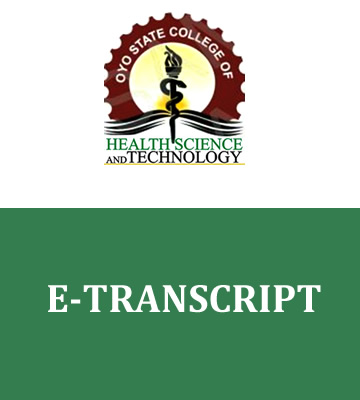
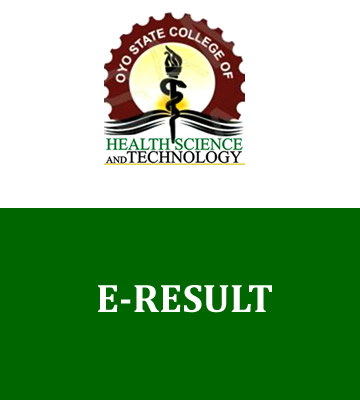
Creted migration and model files

diff --git a/database/migrations/2024_12_24_111352_create_result_computes_table.php b/database/migrations/2024_12_24_111352_create_result_computes_table.php
@@ -1,0 +1,95 @@
+<?php
+
+use Illuminate\Database\Migrations\Migration;
+use Illuminate\Database\Schema\Blueprint;
+use Illuminate\Support\Facades\Schema;
+
+return new class extends Migration
+{
+    /**
+     * Run the migrations.
+     */
+    public function up(): void
+    {
+        Schema::create('result_computes', function (Blueprint $table) {
+            $table->id();
+            $table->string('admission_no', 20); 
+            $table->string('surname', 50); 
+            $table->string('first_name', 50); 
+            $table->string('other_name', 50)->nullable(); 
+            $table->string('class', 20); 
+            $table->string('semester', 20); 
+            $table->string('picture_dir', 20)->nullable(); 
+            $table->string('course', 100); 
+            $table->unsignedTinyInteger('sn', 5); 
+            $table->unsignedTinyInteger('no_of_course'); 
+            $table->string('session1', 20); 
+            $table->decimal('gtotal', 5, 1)->nullable();
+            $table->decimal('gpa', 5, 1)->nullable();
+            $table->integer('total_course_unit')->nullable();
+            $table->string('student_full_name', 100);
+            $table->decimal('gpa1', 5, 1)->nullable();
+            $table->decimal('gpa2', 5, 1)->nullable();
+            $table->decimal('cgpa', 5, 1)->nullable();
+            $table->decimal('cgpa1', 5, 1)->nullable();
+            $table->decimal('cgpa2', 5, 1)->nullable();
+            $table->decimal('cgpa3', 5, 1)->nullable();
+            $table->decimal('total_cgpa', 5, 1)->nullable();
+            $table->string('remark', 20)->nullable();
+            $table->unsignedTinyInteger('failed_course')->nullable();
+            $table->unsignedTinyInteger('failed_course1')->nullable();
+            $table->unsignedTinyInteger('failed_course2')->nullable();
+            $table->unsignedTinyInteger('total_failed_course')->nullable();
+            $table->string('cgpa_remark', 20)->nullable();
+            $table->string('promoted', 20)->nullable();
+            $table->decimal('total_grade_point', 5, 1)->nullable();
+            $table->decimal('all_total_grade_point', 5, 1)->nullable();
+            $table->unsignedTinyInteger('total_course_unit_new')->nullable();
+            $table->unsignedTinyInteger('all_total_course_unit')->nullable();
+            $table->decimal('total_cgpa_new', 5, 1)->nullable();
+            $table->string('total_remark', 20)->nullable();
+
+            // Generate fields for scores and subjects
+            for ($i = 1; $i <= 19; $i++) {               
+                $table->string("subject{$i}", 60)->nullable(); 
+            }
+
+            for ($i = 1; $i <= 19; $i++) {
+                $table->decimal("ctotal{$i}", 5, 1)->nullable();                
+            }
+
+            for ($i = 1; $i <= 17; $i++) {
+                $table->decimal("subjectgrade{$i}", 5)->nullable();                
+            }
+
+            for ($i = 1; $i <= 19; $i++) {               
+                $table->string("score{$i}", 5)->nullable(); 
+            }
+
+            // Generate fields for units
+            for ($i = 1; $i <= 18; $i++) {
+                $table->unsignedTinyInteger("unit{$i}")->nullable();
+            }
+
+            // Generate fields for course titles
+            for ($i = 1; $i <= 17; $i++) {
+                $table->string("ctitle{$i}", 100)->nullable();
+            }
+
+            for ($i = 1; $i <= 15; $i++) {               
+                $table->string("carryover{$i}", 10)->nullable(); 
+            }
+
+            $table->timestamps();
+
+        });
+    }
+
+    /**
+     * Reverse the migrations.
+     */
+    public function down(): void
+    {
+        Schema::dropIfExists('result_computes');
+    }
+};

diff --git a/app/Models/ResultCompute.php b/app/Models/ResultCompute.php
@@ -1,0 +1,64 @@
+<?php
+
+namespace App\Models;
+
+use Illuminate\Database\Eloquent\Factories\HasFactory;
+use Illuminate\Database\Eloquent\Model;
+
+class ResultCompute extends Model
+{
+    use HasFactory;
+
+    protected $table = 'result_computes';
+
+    protected $fillable;
+
+    public function __construct()
+    {
+        $this->fillable = array_merge(
+            [
+                'admission_no',
+                'surname',
+                'first_name',
+                'other_name',
+                'class',
+                'semester',
+                'picture_dir',
+                'course',
+                'no_of_course',
+                'session1',
+                'gtotal',
+                'gpa',
+                'total_course_unit',
+                'student_full_name',
+                'gpa1',
+                'gpa2',
+                'cgpa',
+                'cgpa1',
+                'cgpa2',
+                'cgpa3',
+                'total_cgpa',
+                'remark',
+                'failed_course',
+                'failed_course1',
+                'failed_course2',
+                'total_failed_course',
+                'cgpa_remark',
+                'promoted',
+                'total_grade_point',
+                'all_total_grade_point',
+                'total_course_unit_new',
+                'all_total_course_unit',
+                'total_cgpa_new',
+                'total_remark',
+            ],
+                array_map(fn($i) => "subject{$i}", range(1, 19)),
+                array_map(fn($i) => "ctotal{$i}", range(1, 19)),
+                array_map(fn($i) => "subjectgrade{$i}", range(1, 17)),
+                array_map(fn($i) => "score{$i}", range(1, 19)),
+                array_map(fn($i) => "unit{$i}", range(1, 18)),
+                array_map(fn($i) => "ctitle{$i}", range(1, 17)),
+                array_map(fn($i) => "carryover{$i}", range(1, 15)),
+        );
+    }
+}

diff --git a/database/migrations/2024_12_24_103259_create_results_table.php b/database/migrations/2024_12_24_103259_create_results_table.php
@@ -1,0 +1,54 @@
+<?php
+
+use Illuminate\Database\Migrations\Migration;
+use Illuminate\Database\Schema\Blueprint;
+use Illuminate\Support\Facades\Schema;
+
+return new class extends Migration
+{
+    /**
+     * Run the migrations.
+     */
+    public function up(): void
+    {
+        Schema::create('results', function (Blueprint $table) {
+            $table->id();
+            $table->string('admission_no', 20); 
+            $table->string('surname', 50); 
+            $table->string('first_name', 50); 
+            $table->string('other_name', 50)->nullable(); 
+            $table->string('class', 20); 
+            $table->string('semester', 20); 
+            $table->string('picture_dir', 20)->nullable(); 
+            $table->string('course', 100); 
+            $table->unsignedTinyInteger('no_of_course'); 
+            $table->string('session1', 20); 
+
+            // Generate fields for scores and subjects
+            for ($i = 1; $i <= 19; $i++) {
+                $table->decimal("score{$i}", 5, 1)->nullable(); 
+                $table->string("subject{$i}", 60)->nullable(); 
+            }
+
+            // Generate fields for units
+            for ($i = 1; $i <= 18; $i++) {
+                $table->unsignedTinyInteger("unit{$i}")->nullable();
+            }
+
+            // Generate fields for course titles
+            for ($i = 1; $i <= 17; $i++) {
+                $table->string("ctitle{$i}", 100)->nullable();
+            }
+
+            $table->timestamps();
+        });
+    }
+
+    /**
+     * Reverse the migrations.
+     */
+    public function down(): void
+    {
+        Schema::dropIfExists('results');
+    }
+};

diff --git a/app/Models/Result.php b/app/Models/Result.php
@@ -1,0 +1,37 @@
+<?php
+
+namespace App\Models;
+
+use Illuminate\Database\Eloquent\Factories\HasFactory;
+use Illuminate\Database\Eloquent\Model;
+
+class Result extends Model
+{
+    use HasFactory;
+
+    protected $table = 'results';
+
+    protected $fillable;
+
+    public function __construct()
+    {
+        $this->fillable = array_merge(
+            [
+                'admission_no',
+                'surname',
+                'first_name',
+                'other_name',
+                'class',
+                'semester',
+                'picture_dir',
+                'course',
+                'no_of_course',
+                'session1',
+            ],
+            array_map(fn($i) => "score{$i}", range(0, 18)),
+            array_map(fn($i) => "subject{$i}", range(0, 18)),
+            array_map(fn($i) => "unit{$i}", range(0, 17)),
+            array_map(fn($i) => "ctitle{$i}", range(0, 16))
+        );
+    }
+}

diff --git a/database/migrations/2024_12_24_101811_create_hods_table.php b/database/migrations/2024_12_24_101811_create_hods_table.php
@@ -1,0 +1,31 @@
+<?php
+
+use Illuminate\Database\Migrations\Migration;
+use Illuminate\Database\Schema\Blueprint;
+use Illuminate\Support\Facades\Schema;
+
+return new class extends Migration
+{
+    /**
+     * Run the migrations.
+     */
+    public function up(): void
+    {
+        Schema::create('hods', function (Blueprint $table) {
+            $table->id();
+            $table->string('hod_name');
+            $table->string('dept');
+            $table->string('course');
+            $table->string('sign');
+            $table->timestamps();
+        });
+    }
+
+    /**
+     * Reverse the migrations.
+     */
+    public function down(): void
+    {
+        Schema::dropIfExists('hods');
+    }
+};

diff --git a/resources/views/layout/dashboard-admin-layout.blade.php b/resources/views/layout/dashboard-admin-layout.blade.php
@@ -65,7 +65,7 @@
         <aside id="sidebar-wrapper">
           <div class="sidebar-brand">
             <a href="{{route('admin-dashboard')}}"> <img alt="image" src="{{asset('dashboard/assets/img/logo.png')}}" class="header-logo" /> <span
-                class="logo-name">E-Transcript</span>
+                class="logo-name">E-Result</span>
             </a>
           </div>
           <ul class="sidebar-menu">

diff --git a/app/Models/hod.php b/app/Models/hod.php
@@ -1,0 +1,20 @@
+<?php
+
+namespace App\Models;
+
+use Illuminate\Database\Eloquent\Factories\HasFactory;
+use Illuminate\Database\Eloquent\Model;
+
+class hod extends Model
+{
+    use HasFactory;
+
+    protected $table = 'hods';
+
+    protected $fillable = [
+        'hod_name',
+        'dept',
+        'course',
+        'sign',
+    ];
+}
